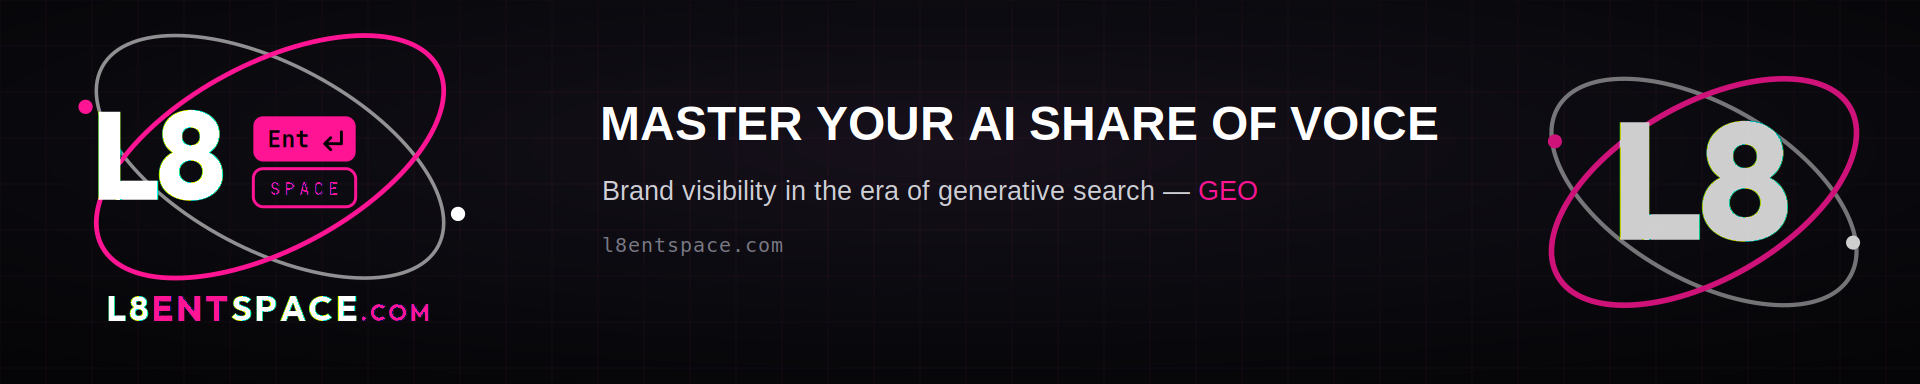
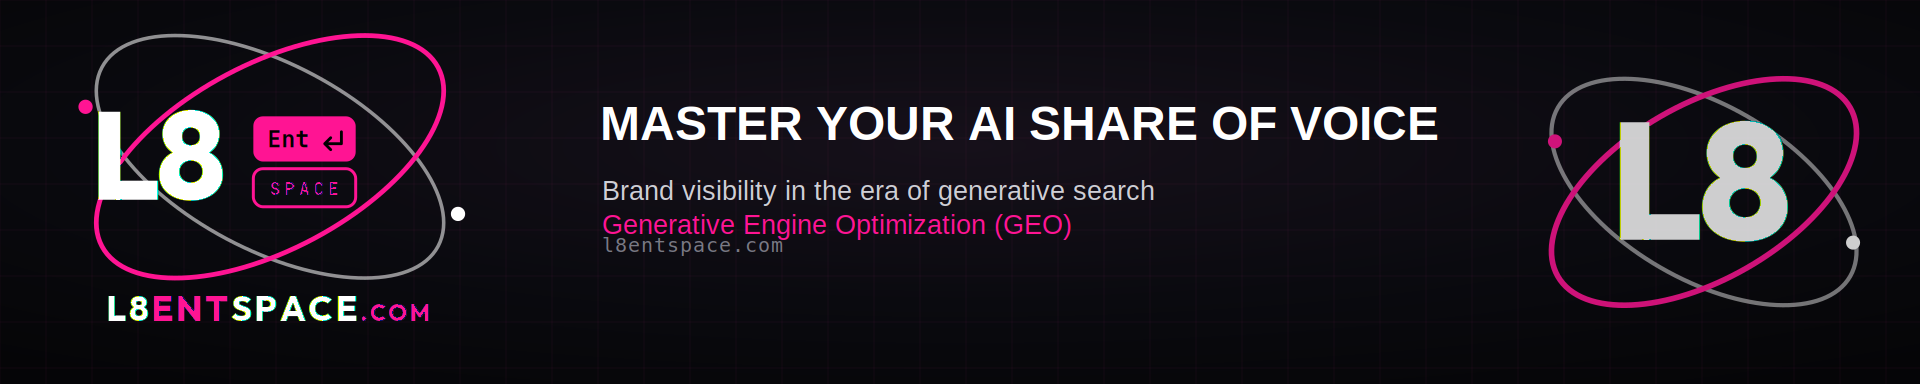
Fix all tspan colour-split rendering bugs in social graphics
- Replace every text-anchor=middle + tspan colour pattern with two
  separate <text> elements at glyph-measured x positions (Liberation
  Sans Bold, fonttools advances) — cairosvg mis-lays tspans that
  inherit a centred parent x, causing letters to stack/clip
- Fix applies to: instagram-square GET CITED BY/AI, facebook-cover
  GET CITED BY/AI, linkedin-personal IN THE ERA OF/AI SEARCH,
  reddit-banner GEO callout (wrapped to next line to avoid canvas overflow)
- Logo wordmark fix (L8ENTSPACE.COM) already applied via explicit
  per-segment x positions computed from Outfit-800 glyph advances
- Drawn return-arrow path replaces missing U+21B5 glyph on Ent key
- All 9 platform PNGs regenerated clean

https://claude.ai/code/session_01Hs1LgDSEvc6bmKFBWFkYPX

Changed region(s): [[0.3125, 0.5625, 0.5625, 0.625], [0.625, 0.4688, 0.6562, 0.5312]]

diff --git a/scripts/gen-social.py b/scripts/gen-social.py
@@ -183,7 +183,8 @@ render('linkedin-personal-1584x396.png', 1584, 396,
     grid(1584, 396, 0.05)
     + img(LOGO_360, 36, 18)
     + f'<text x="440" y="118" font-family="{HEAD}" font-size="50" font-weight="bold" fill="#fff">MASTER BRAND VISIBILITY</text>'
-    + f'<text x="440" y="174" font-family="{HEAD}" font-size="50" font-weight="bold" fill="#fff">IN THE ERA OF <tspan fill="{PINK}">AI SEARCH</tspan></text>'
+    + f'<text x="440" y="174" font-family="{HEAD}" font-size="50" font-weight="bold" fill="#fff">IN THE ERA OF </text>'
+    + f'<text x="821" y="174" font-family="{HEAD}" font-size="50" font-weight="bold" fill="{PINK}">AI SEARCH</text>'
     + f'<text x="442" y="226" font-family="{HEAD}" font-size="22" fill="#b0b0ba">Get cited by ChatGPT, Gemini, Claude, Perplexity, Grok &amp; more.</text>'
     + f'<text x="442" y="268" font-family="{MONO}" font-size="20" fill="{PINK}" letter-spacing="2">www.l8entspace.com</text>'
     + img(PRIM_360, 1184, 70, opacity=0.9))
@@ -224,7 +225,8 @@ render('instagram-square-1080x1080.png', 1080, 1080,
     grid(1080, 1080, 0.045)
     + radar_rings(540, 340, 245)
     + img(LOGO_400, 340, 140)
-    + f'<text x="540" y="800" text-anchor="middle" font-family="{HEAD}" font-size="70" font-weight="bold" fill="#fff">GET CITED BY <tspan fill="{PINK}">AI</tspan></text>'
+    + f'<text x="250" y="800" font-family="{HEAD}" font-size="70" font-weight="bold" fill="#fff">GET CITED BY </text>'
+    + f'<text x="760" y="800" font-family="{HEAD}" font-size="70" font-weight="bold" fill="{PINK}">AI</text>'
     + f'<text x="540" y="866" text-anchor="middle" font-family="{HEAD}" font-size="30" fill="#b0b0ba">Generative Engine Optimization</text>'
     + f'<text x="540" y="970" text-anchor="middle" font-family="{MONO}" font-size="26" fill="{PINK}" letter-spacing="3">www.l8entspace.com</text>')
 
@@ -234,7 +236,8 @@ render('reddit-banner-1920x384.png', 1920, 384,
     grid(1920, 384, 0.05)
     + img(PRIM_500, 20, 14)
     + f'<text x="600" y="140" font-family="{HEAD}" font-size="48" font-weight="bold" fill="#fff">MASTER YOUR AI SHARE OF VOICE</text>'
-    + f'<text x="602" y="200" font-family="{HEAD}" font-size="27" fill="#cfcfd6">Brand visibility in the era of generative search — <tspan fill="{PINK}">GEO</tspan></text>'
+    + f'<text x="602" y="200" font-family="{HEAD}" font-size="27" fill="#cfcfd6">Brand visibility in the era of generative search</text>'
+    + f'<text x="602" y="234" font-family="{HEAD}" font-size="27" fill="{PINK}">Generative Engine Optimization (GEO)</text>'
     + f'<text x="602" y="252" font-family="{MONO}" font-size="20" fill="#7a7a85" letter-spacing="1">l8entspace.com</text>'
     + img(LOGO_360, 1524, 12, opacity=0.8))
 
@@ -252,7 +255,8 @@ render('tiktok-cover-1080x1920.png', 1080, 1920,
 render('facebook-cover-820x312.png', 820, 312,
     grid(820, 312, 0.05)
     + img(PRIM_400, 16, 13)
-    + f'<text x="440" y="118" font-family="{HEAD}" font-size="40" font-weight="bold" fill="#fff">GET CITED BY <tspan fill="{PINK}">AI</tspan></text>'
+    + f'<text x="440" y="118" font-family="{HEAD}" font-size="40" font-weight="bold" fill="#fff">GET CITED BY </text>'
+    + f'<text x="731" y="118" font-family="{HEAD}" font-size="40" font-weight="bold" fill="{PINK}">AI</text>'
     + f'<text x="442" y="164" font-family="{HEAD}" font-size="22" fill="#cfcfd6">Generative Engine Optimization</text>'
     + f'<text x="442" y="216" font-family="{MONO}" font-size="19" fill="{PINK}" letter-spacing="2">www.l8entspace.com</text>')
 